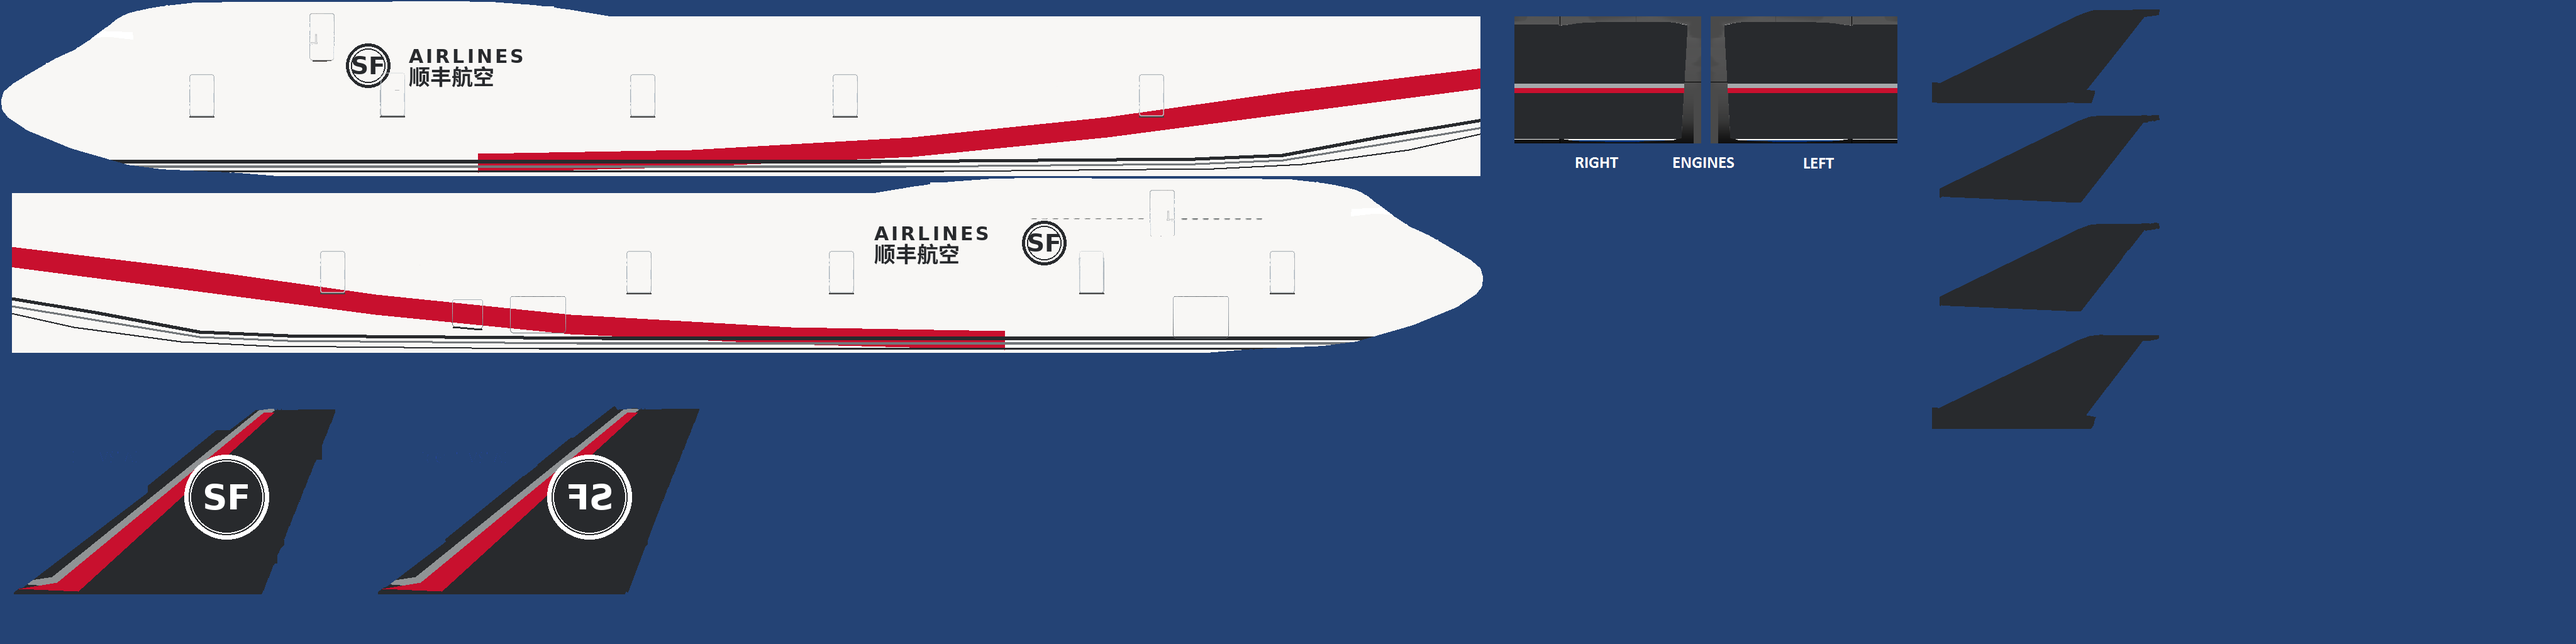
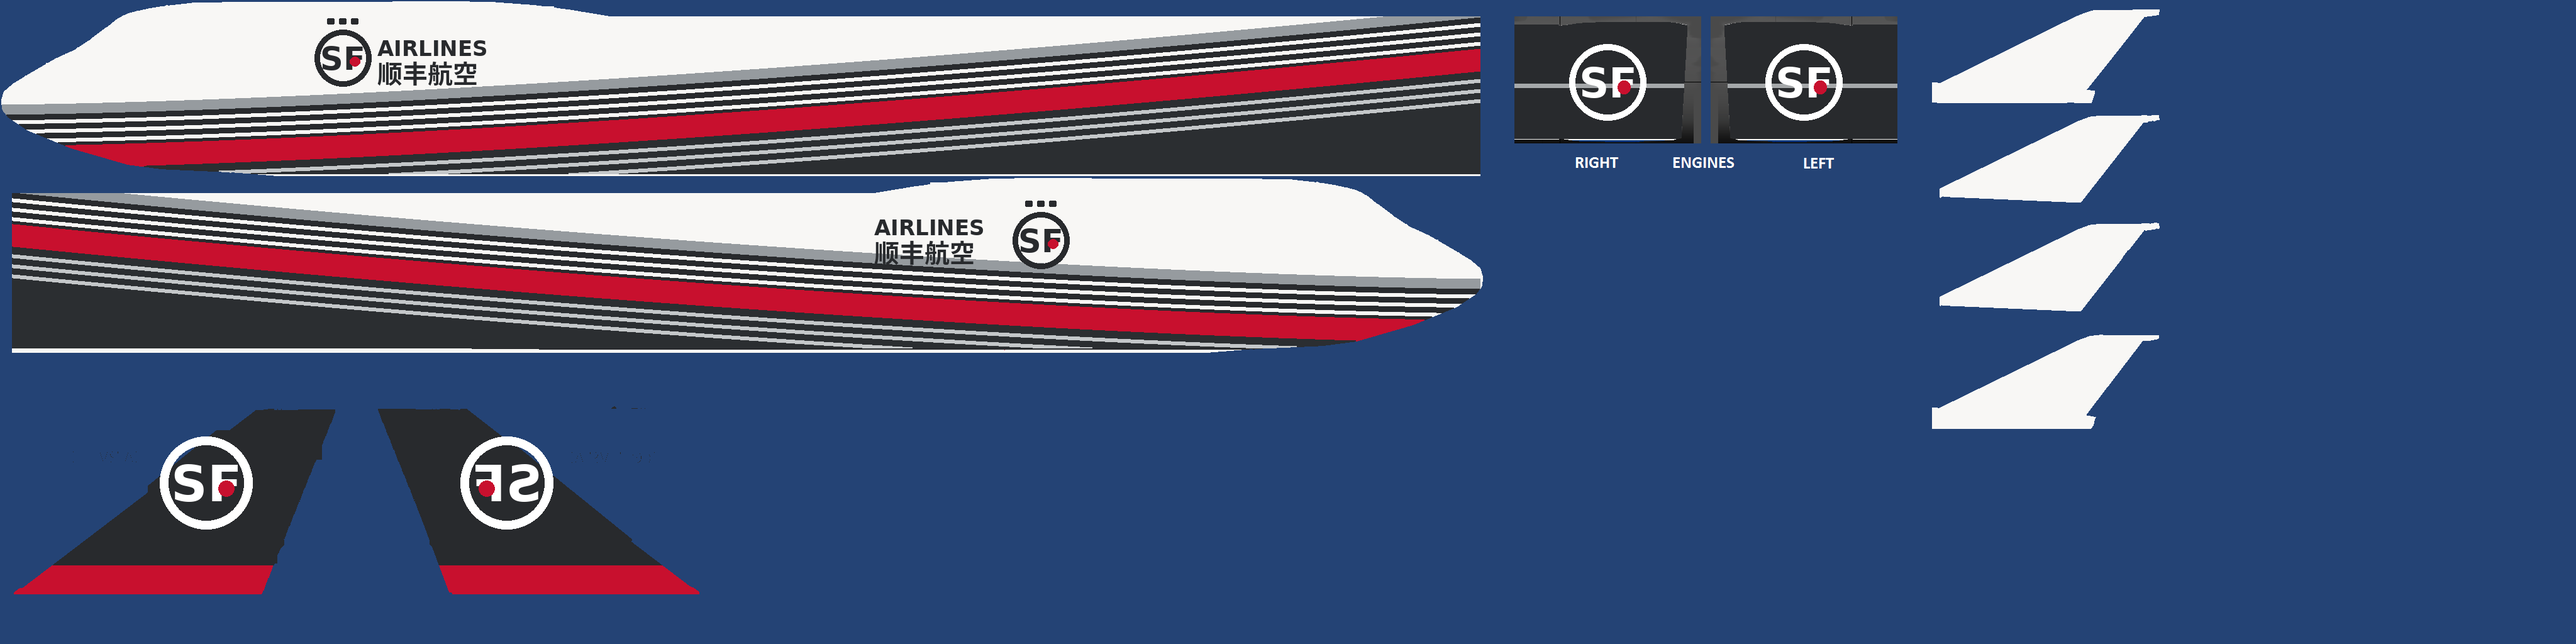
fix: correct SF Airlines 747-400F livery to match the real aircraft
Rebuild the SF livery atlas from the real B-2423 side views: white upper
fuselage, silver band and four black pinstripes, red cheatline, charcoal
belly with light pinstripes, black fin with white SF roundel and red root
band, dark nacelles with white SF roundels, and white winglets. Add the
red dot and speed dashes to the forward lockup.

Agent: Pi coding agent
Model: deepseek/deepseek-v4.1-flash-1017

diff --git a/src/cargo-liveries.js b/src/cargo-liveries.js
@@ -33,6 +33,6 @@ export const CARGO_LIVERIES = [
       accent: '#c8102e',
     },
     markText: 'AIRLINES · 顺丰航空 · SF',
-    description: '白/浅灰机身、黑色垂尾与白色环状 SF 标志；下腹多道黑灰线、向尾部延伸的红色斜带及深色发动机罩。字样与环形图案为原创绘制。',
+    description: '白色机身、深灰下腹与多道黑/白细线、红色腰线；黑色垂尾与白色 SF 圆标，深色发动机罩配白色 SF 圆标。字样与环形图案为原创绘制。',
   },
 ];
